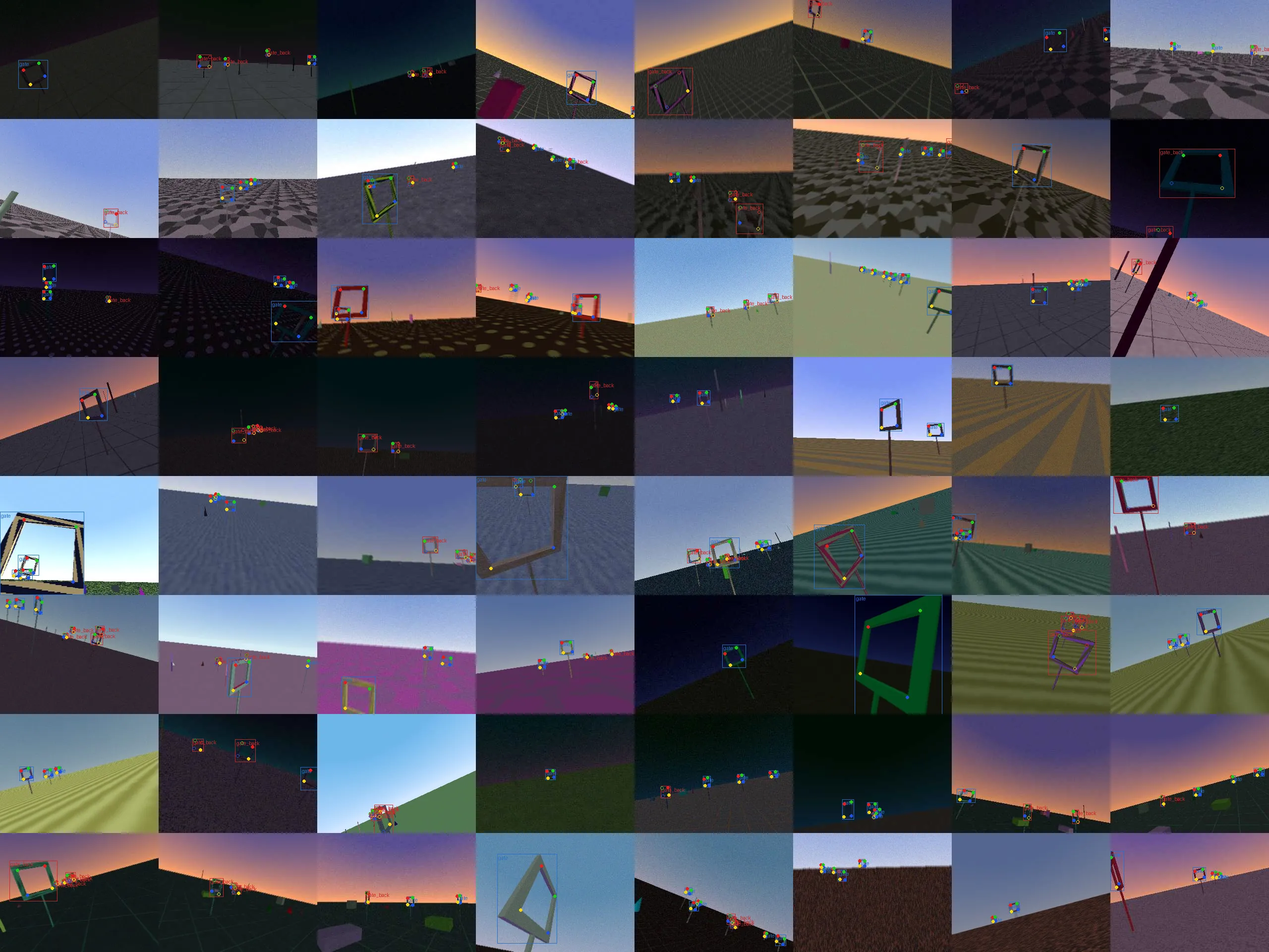
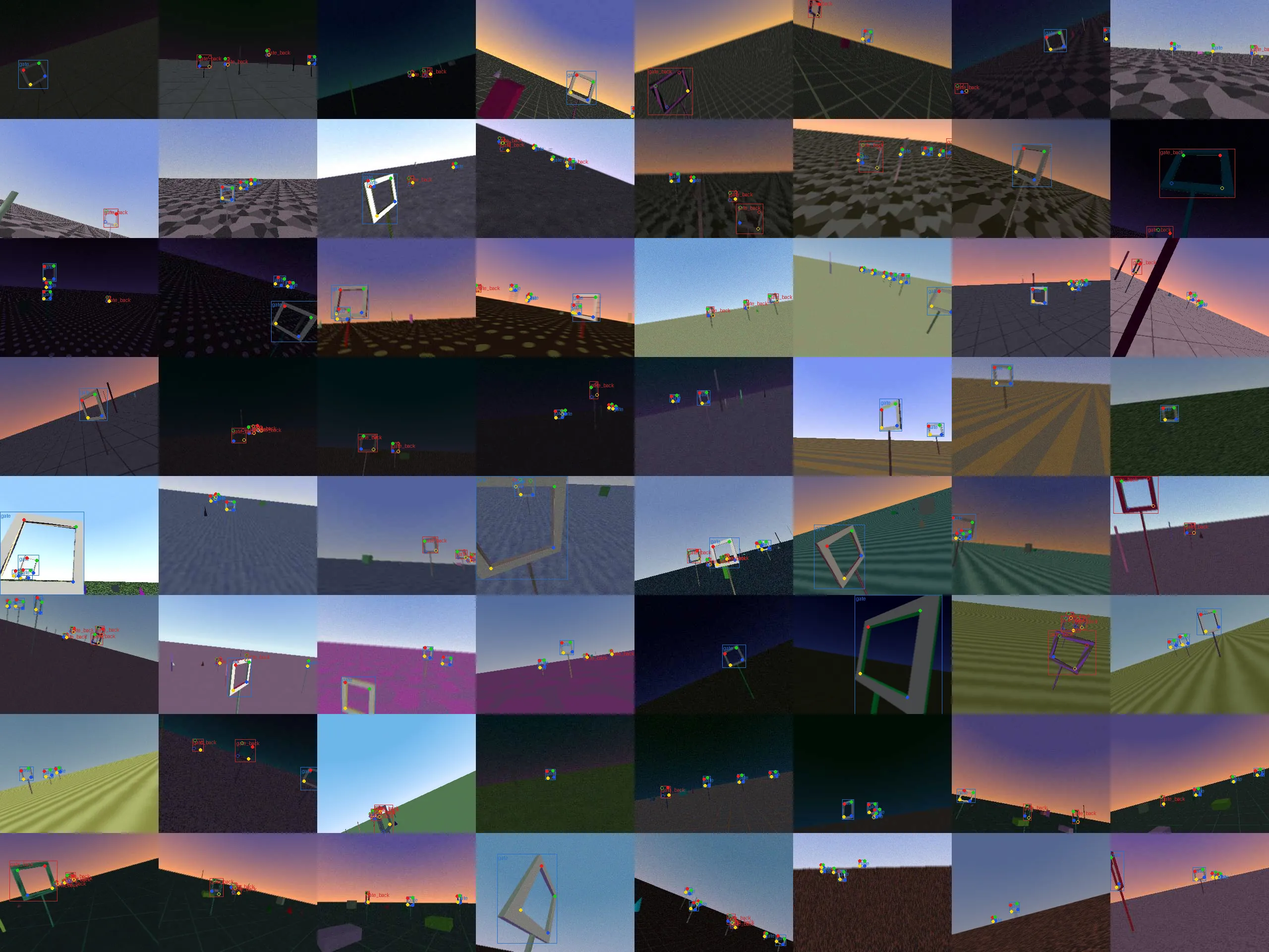
docs: log the front and back confusion

diff --git a/ENGINEERING_LOG.md b/ENGINEERING_LOG.md
@@ -139,3 +139,9 @@ One flight timed out after passing 4 gates, then flying gates 0 to 3 again. The 
 ## 2026-10-20: Kaggle's matplotlib backend broke training
 
 The first Kaggle training run failed before epoch 1: "Key backend: 'module://matplotlib_inline.backend_inline' is not a valid value for backend". The notebook kernel exports `MPLBACKEND` pointing at its inline backend, the training subprocess inherits it, and our environment does not have that module. Ultralytics imports matplotlib while checking the dataset, so the import failed. `train_detector` now sets `MPLBACKEND=Agg`, since training never shows plots. The CPU test in WSL had not caught it because WSL has no such variable.
+
+## 2026-10-20: The first detector could not tell a gate's front from its back
+
+The first trained detector (42 epochs, pose mAP50-95 0.362 on validation) finished 2 of 10 straight courses; the acceptance check needs 8. The same pilot with true corners finishes all of them, so the loss came from perception. On a failed flight, the believed gate center was within 0.1 m of the truth, but the drone drifted 1.07 m sideways, because the approach point sits 1.5 m out along the estimated facing direction. On 404 detections in rendered eval frames, the yaw of that direction was off by a median of 31 to 84 degrees, depending on distance, and flipped by more than 90 degrees in 20 to 47 percent of cases. Between 6 and 10 m, front or back was right only 64 percent of the time, while about 85 percent of those gates faced the camera.
+
+Two causes. The gate looked the same from both sides apart from its 5 cm depth, yet the labels gave the back a different class and a mirrored corner order. Gates now have a white, visual-only front face, so the side is visible. And on a gate a few pixels tall, 4 corners pin down position but hardly orientation: at 6 m a 40 degree turn changes the near and far edges by about 1 px. The tracker now weights direction updates by (2.5 m / distance)^2 beyond 2.5 m, while position keeps the full EMA weight. The first run also stopped at 42 of 150 epochs at 28 s per epoch, with the learning rate schedule unfinished, so the base training preset now asks for 40 epochs.
